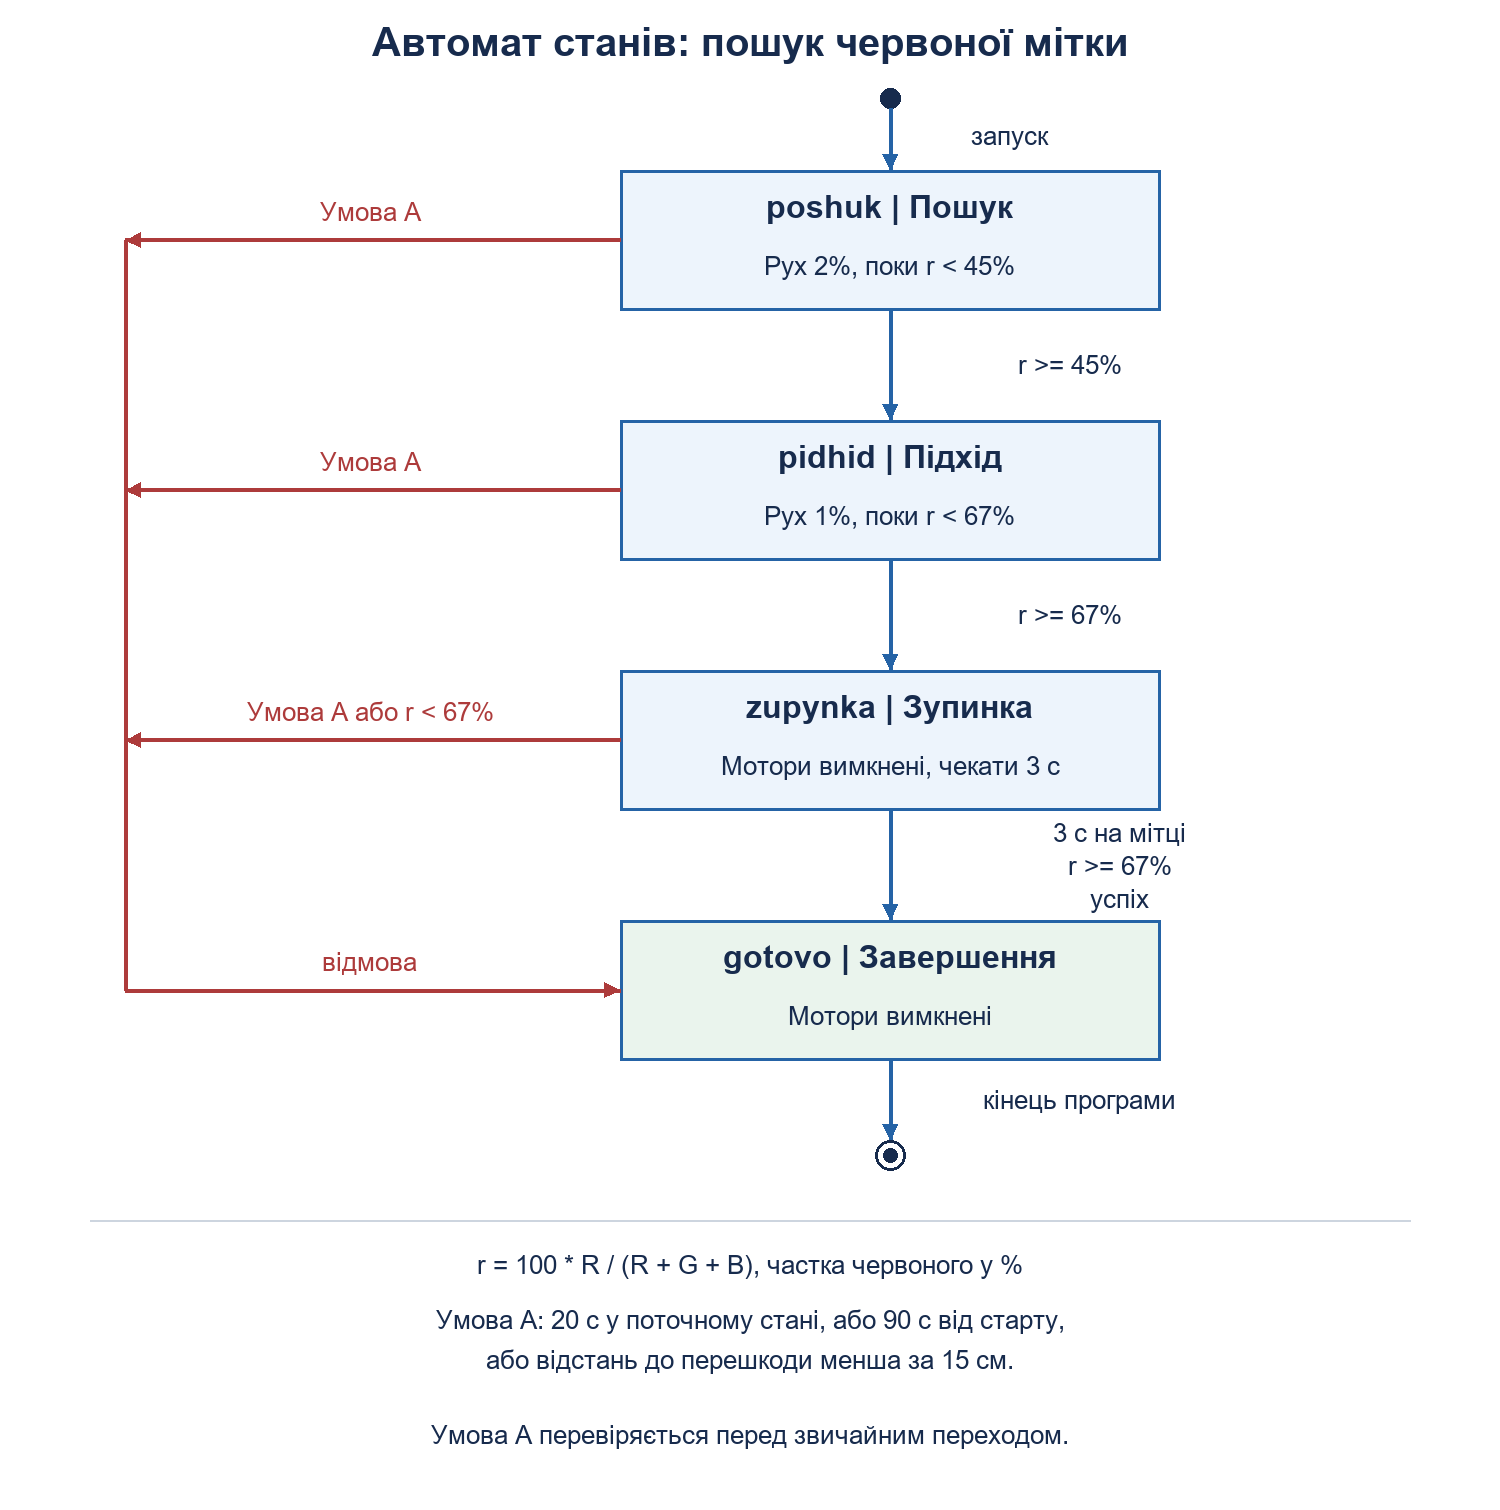
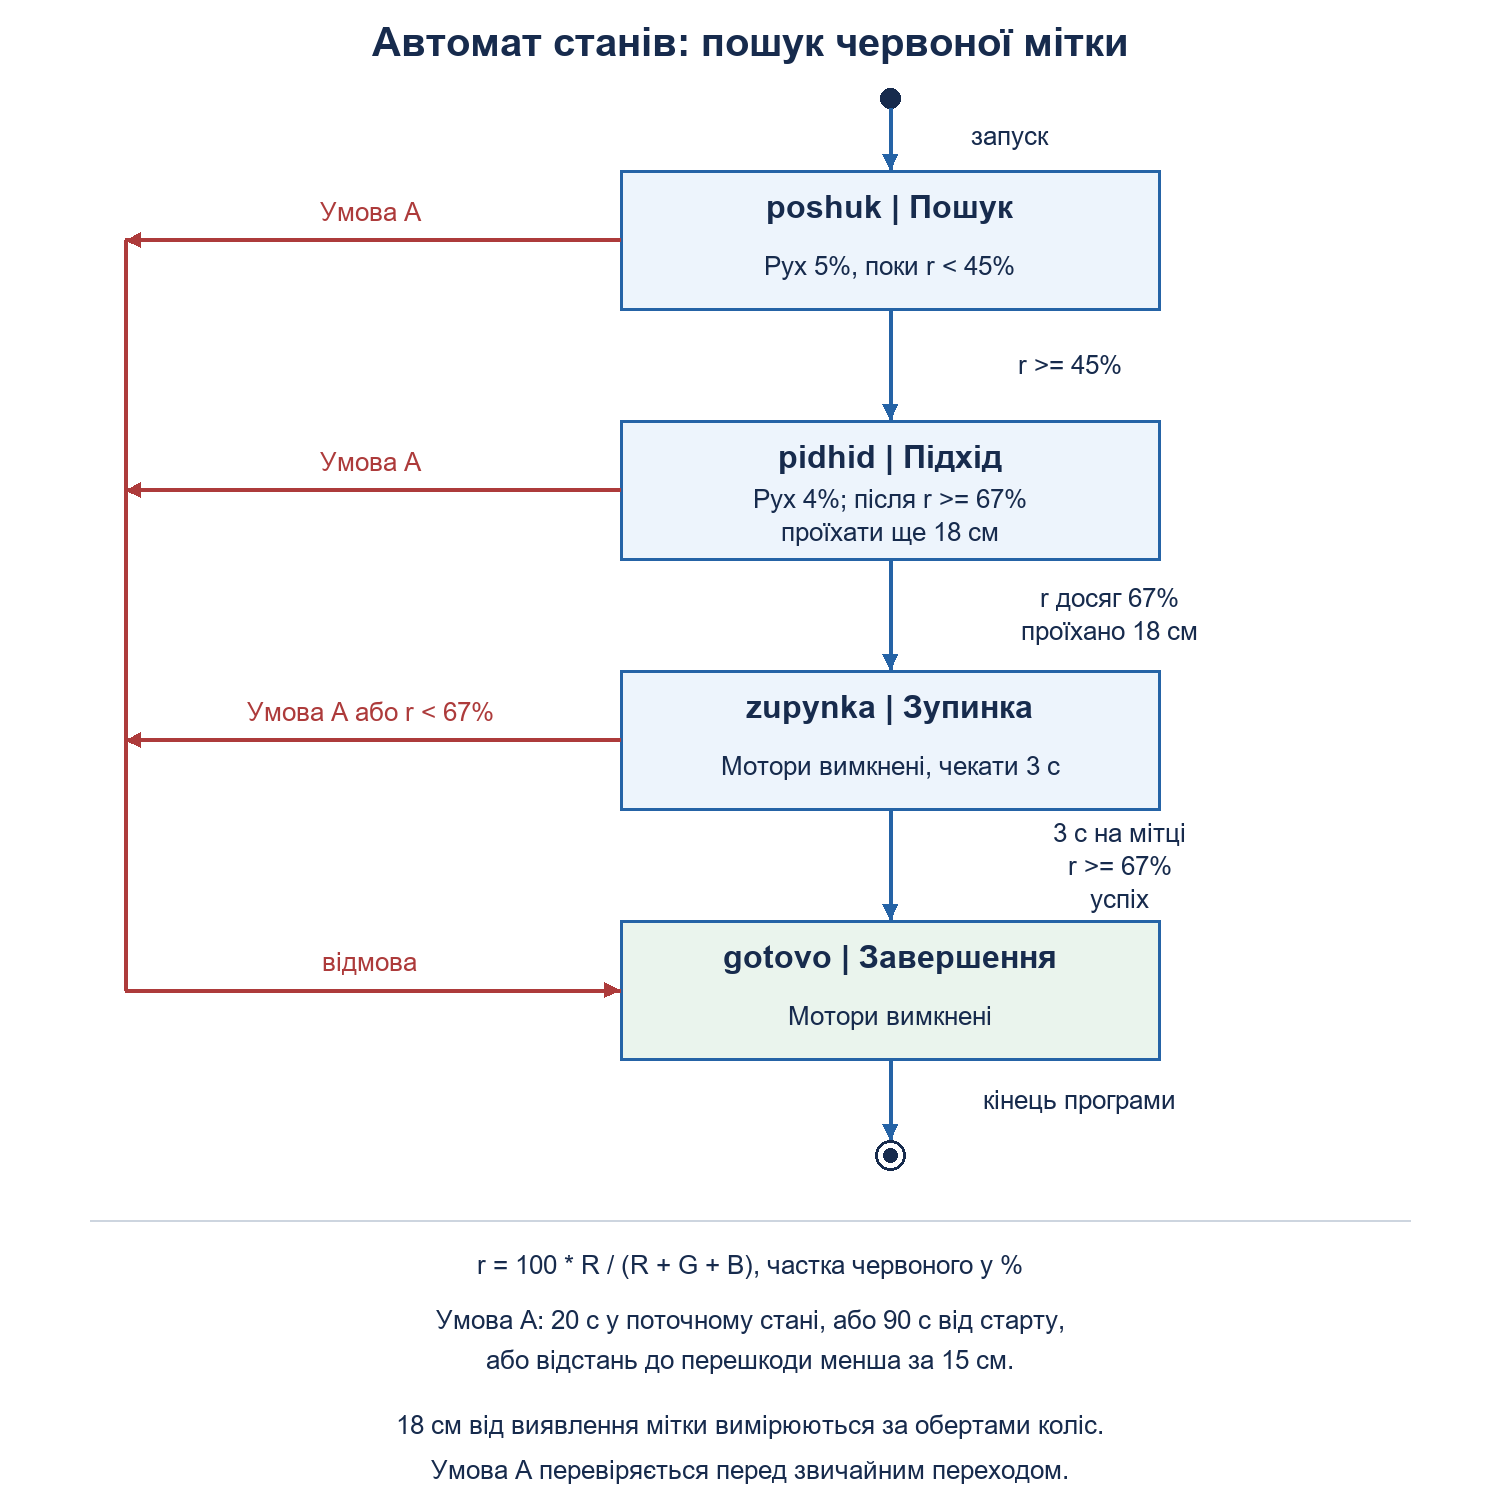
Add files via upload

Changed region(s): [[0.276, 0.9338, 0.736, 0.996], [0.4907, 0.3113, 0.6747, 0.3735], [0.6747, 0.3735, 0.7973, 0.4358]]

diff --git a/praktyka/06-avtomat-staniv/misiya.py b/praktyka/06-avtomat-staniv/misiya.py
@@ -2,20 +2,26 @@ from ev3dev2.motor import MoveTank, OUTPUT_A, OUTPUT_B, SpeedPercent
 from ev3dev2.sensor import INPUT_1, INPUT_2
 from ev3dev2.sensor.lego import ColorSensor, UltrasonicSensor
 import time
+import math
 
 tank = MoveTank(OUTPUT_A, OUTPUT_B)
 color = ColorSensor(INPUT_1)
 ultra = UltrasonicSensor(INPUT_2)
 PORIH_PIDHODU = 45
 PORIH_MITKY = 67
+ZAIZD_CM = 18
+DIAMETR_KOLESA = 5.6
 TIMEOUT_STANU = 20
 LIMIT_MISIYI = 90
 
 
 def chervone():
     r, g, b = color.rgb
-    suma = r + g + b
-    return 100 * r / suma if suma > 0 else 0
+    return 100 * r / (r + g + b) if r + g + b > 0 else 0
+
+
+def polozhennya_kolis():
+    return (tank.left_motor.position + tank.right_motor.position) / 2
 
 
 def perekhid(novyi, prychyna):
@@ -32,6 +38,7 @@ pochatok = time.time()
 vkhid = pochatok
 stan = "poshuk"
 uspikh = False
+pochatok_mitky = None
 print("Старт: poshuk")
 
 while stan != "gotovo":
@@ -53,13 +60,20 @@ while stan != "gotovo":
         if r >= PORIH_PIDHODU:
             perekhid("pidhid", "частка червоного %.1f%%" % r)
         else:
-            tank.on(SpeedPercent(2), SpeedPercent(2))
+            tank.on(SpeedPercent(5), SpeedPercent(5))
 
     elif stan == "pidhid":
-        if r >= PORIH_MITKY:
-            perekhid("zupynka", "мітка %.1f%%" % r)
+        # Відлік 18 см починається лише після виявлення червоної мітки.
+        if pochatok_mitky is None and r >= PORIH_MITKY:
+            pochatok_mitky = polozhennya_kolis()
+            print("%.1f с: мітку знайдено, заїжджаю на 18 см" % (zaraz - pochatok))
+        proydeno = 0
+        if pochatok_mitky is not None:
+            proydeno = (polozhennya_kolis() - pochatok_mitky) * math.pi * DIAMETR_KOLESA / 360
+        if proydeno >= ZAIZD_CM:
+            perekhid("zupynka", "заїзд %.1f см; червоне %.1f%%" % (proydeno, r))
         else:
-            tank.on(SpeedPercent(1), SpeedPercent(1))
+            tank.on(SpeedPercent(4), SpeedPercent(4))
 
     elif stan == "zupynka":
         if r < PORIH_MITKY:

diff --git a/praktyka/06-avtomat-staniv/zvit.md b/praktyka/06-avtomat-staniv/zvit.md
@@ -7,32 +7,33 @@
 1. Рухатися коридором.
 2. Перевіряти відстань до перешкод.
 3. Шукати червону мітку датчиком кольору.
-4. Сповільнитися біля мітки.
+4. Сповільнитися та заїхати на мітку.
 5. Зупинитися на ній на 3 с.
 6. Завершити рух у межах 90 с.
 
-**Фрагмент на відео:** прямий підхід до червоної мітки та зупинка на 3 с у сцені з практики 4. Під час зупинки датчик показав 72,2% червоного. Корпус залишився переважно перед міткою, а її виявлення контролював датчик кольору.
+**Фрагмент цієї роботи:** прямий підхід до червоної мітки, заїзд на неї та зупинка на 3 с. Використано сцену з практики 4.
 
 **Стани:** `poshuk -> pidhid -> zupynka -> gotovo`.
 
-У пошуку швидкість 2%. Коли частка червоного досягає 45%, робот переходить до підходу зі швидкістю 1%. При 67% зупиняється та перевіряє, що мітка залишається під датчиком протягом 3 с. Поріг 67% взято з практики 4, а 45% використано для завчасного сповільнення. Частка червоного обчислюється як `100 * R / (R + G + B)`.
+У пошуку швидкість 5%. При частці червоного 45% робот сповільнюється до 4%. Коли датчик показує щонайменше 67%, починається відлік ще 18 см за обертами коліс. Після цього робот зупиняється та перевіряє червоне під датчиком протягом 3 с. Діаметр колеса 5,6 см. Частка червоного: `100 * R / (R + G + B)`.
 
-Кожен перехід друкується через `perekhid()`. Таймаут стану становить 20 с. Перешкода ближче 15 см, втрата мітки під час зупинки або перевищення часу завершують програму з відмовою.
+Кожен перехід друкується через `perekhid()`. Таймаут стану 20 с. Перешкода ближче 15 см, втрата мітки під час зупинки або перевищення часу завершують програму з відмовою.
 
 ![Діаграма станів](dijagrama.png)
 
-**Перевірка:**
+**Перевірка у Gears:**
 
 | Запуск | Результат |
 |---|---|
-| Звичайний | Підхід на 4,7 с, зупинка на 5,7 с, успішне завершення на 8,7 с |
-| Перевірка таймаута | Тимчасово встановлено поріг 101%. Через 20 с у `pidhid` робот зупинився. Загальний час 24,8 с |
-| Запуск на відео | Підхід на 4,7 с, зупинка на 5,7 с, завершення на 8,7 с. Підсумковий час у консолі 8,8 с |
+| Запуск на відео | Підхід на 2,0 с, виявлення мітки на 2,2 с, зупинка на 11,0 с. Під датчиком 100% червоного. Успішне завершення на 14,0 с |
+| Перевірка таймаута | Тимчасово встановлено поріг 101%. Через 20 с у стані `pidhid` робот зупинився. Загальний час 22,0 с. Після перевірки повернуто 67% |
 
-[Відео](https://drive.google.com/file/d/1DSlBOoJEajXnIudVXkumVPXCXyFVUQEH/view?usp=sharing). [Програма](misiya.py).
+**Відео:** 24,07 с. Видно старт, підхід, заїзд на червону мітку та зупинку на 3 с. У кінці програма виводить «Результат: успіх», час 14,0 с. [Переглянути відео](https://drive.google.com/file/d/1l6RI8D_SrR8iQ9a0OIUzzPoX9ojRAkQU/view?usp=sharing).
+
+[Програма](misiya.py).
 
 **Розбір:**
 
-1. У навмисно зіпсованій перевірці застрягав `pidhid`, бо частка червоного не може досягти 101%. Таймаут припинив рух.
-2. Друк переходів показує поточний стан і причину зміни. За самим рухом не завжди видно, яку умову виконав робот.
-3. Для ще двох кроків треба додати стани, умови переходів і таймаути, оновити діаграму та перевірити весь порядок дій.
+1. У навмисній перевірці застрягав `pidhid`, бо частка червоного не може досягти 101%. Таймаут припинив рух.
+2. Друк переходів показує стан і причину його зміни. Це допомагає знайти умову, яка не спрацювала.
+3. Для ще двох кроків треба додати стани, умови переходів і таймаути, оновити діаграму та перевірити порядок дій.
